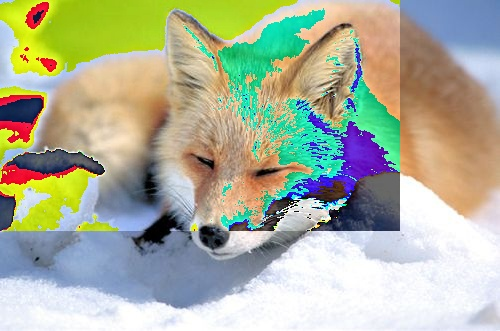
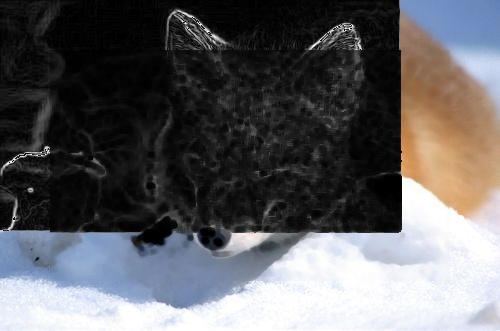
fixed all the built-in algorithms

diff --git a/ppfis.h b/ppfis.h
@@ -2,6 +2,7 @@
 #include <pthread.h>
 #include <tuple>
 #include <cmath>
+#include <vector>
 
 typedef unsigned char uchar;
 
@@ -310,36 +311,28 @@ namespace ppfis
     
     inline void sobel_operator(mask& m)
     {
+        grayscale(m);
         m.operate([](pixels& op, pixel& np)
         {
             int f[] = {1, 2, 1};
 
-            int x_r = 0, x_g = 0, x_b = 0;
-            for (int row = -1; row < 2; row++)
-                for (int col = -1; col < 2; col++)
+            int x_r = 0;
+            for (int col = -1; col < 2; col++)
+                for (int row = -1; row < 2; row++)
                 {
                     const pixel& p = op.at(row, col);
-                    x_r = f[row+1] * col * p.r;
-                    x_g = f[row+1] * col * p.g;
-                    x_b = f[row+1] * col * p.b;
+                    x_r += f[col+1] * row * p.r;
                 }
 
-            int y_r = 0, y_g = 0, y_b = 0;
-            for (int row = -1; row < 2; row++)
-                for (int col = -1; col < 2; col++)
+            int y_r = 0;
+            for (int col = -1; col < 2; col++)
+                for (int row = -1; row < 2; row++)
                 {
                     const pixel& p = op.at(row, col);
-                    y_r = f[col+1] * row * p.r;
-                    y_g = f[col+1] * row * p.g;
-                    y_b = f[col+1] * row * p.b;
+                    y_r += f[row+1] * col * p.r;
                 }
             
-            int mag_r = 0, mag_g = 0, mag_b = 0;
-            mag_r = sqrt(pow(x_r, 2) + pow(y_r, 2));
-            mag_g = sqrt(pow(x_g, 2) + pow(y_g, 2));
-            mag_b = sqrt(pow(x_b, 2) + pow(y_b, 2));
-
-            np = pixel(mag_b, mag_g, mag_r);
+            np = sqrt(x_r * x_r + y_r * y_r);
         });
     }
 
@@ -368,7 +361,10 @@ namespace ppfis
     {
         void (*median_func)(pixels&, pixel&, int) = [](pixels& op, pixel& np, int k)
         {
-            int r[pow(k, 2)] = {0}, g[pow(k, 2)] = {0}, b[pow(k, 2)] = {0};
+            std::vector<int> r(pow(k, 2), 0);
+            std::vector<int> g(pow(k, 2), 0);
+            std::vector<int> b(pow(k, 2), 0);
+
             int size = (k-1)/2;
             int i = 0;
 
@@ -382,9 +378,9 @@ namespace ppfis
                     i++;
                 }
 
-            sort(r, r + pow(k, 2)); 
-            sort(g, b + pow(k, 2)); 
-            sort(g, b + pow(k, 2)); 
+            std::sort(r.begin(), r.end()); 
+            std::sort(g.begin(), g.end()); 
+            std::sort(b.begin(), b.end());
 
             np = pixel(b[size+1], g[size+1], r[size+1]);
         };

diff --git a/main.cpp b/main.cpp
@@ -46,8 +46,8 @@ void built_in_function_examples(mask& m)
 {
     m.set_relative_border(0,0,100,100);
     sobel_operator(m);
-    //m.set_relative_border(50,50,50,50);
-    //mean_filter(m, 15);
+    m.set_relative_border(50,50,50,50);
+    median_filter(m, 5);
 }
 
 void simple_thread_exmaples()
